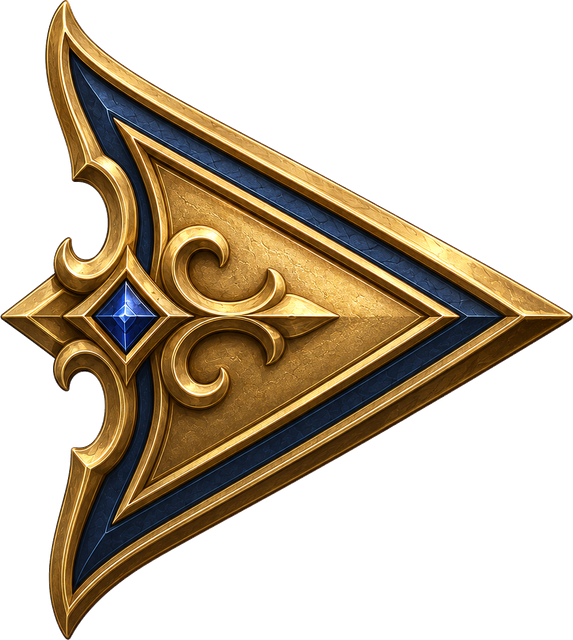
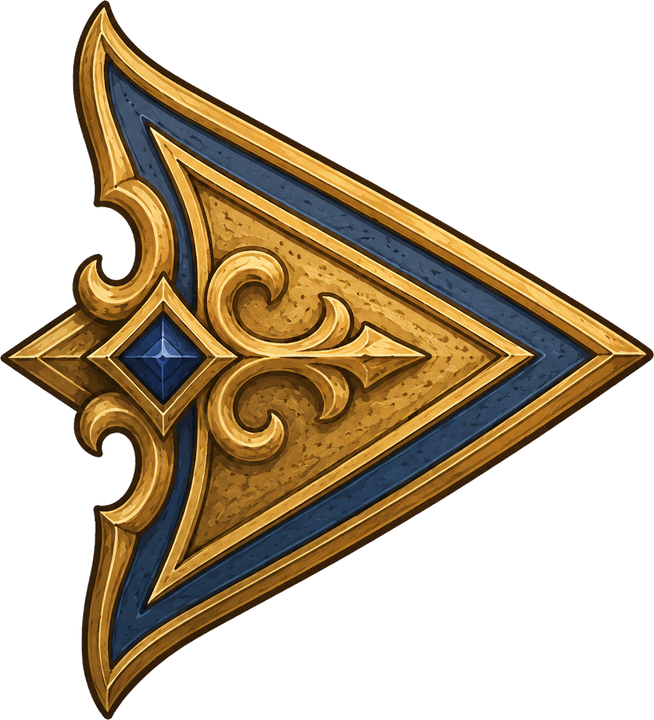
Enlarge map switch arrow

diff --git a/index.html b/index.html
@@ -8,14 +8,14 @@
   <link rel="preconnect" href="https://fonts.googleapis.com" />
   <link rel="preconnect" href="https://fonts.gstatic.com" crossorigin />
   <link href="https://fonts.googleapis.com/css2?family=Cinzel:wght@400;500;600;700;800;900&family=Cinzel+Decorative:wght@700;900&family=IM+Fell+English:ital@0;1&display=swap" rel="stylesheet" />
-  <link rel="stylesheet" href="styles.css?v=20260702-map-switch-arrow" />
+  <link rel="stylesheet" href="styles.css?v=20260702-map-switch-arrow-bigger" />
   <link rel="preload" as="image" href="assets/loading-ring.png" />
   <link rel="preload" as="image" href="assets/loading-crown.png" />
   <link rel="preload" as="image" href="assets/leaderboard-icon.png?v=20260623-leaderboard-icon-new" />
   <link rel="preload" as="image" href="assets/profile-hud-frame.png?v=20260623-profile-avatar-fill" />
   <link rel="preload" as="image" href="assets/city-list-icon.png?v=20260623-city-icon-hud" />
   <link rel="preload" as="image" href="assets/map-icon.png?v=20260623-map-icon-framed" />
-  <link rel="preload" as="image" href="assets/map-switch-arrow.png?v=20260702-map-arrow" />
+  <link rel="preload" as="image" href="assets/map-switch-arrow.png?v=20260702-map-arrow-bigger" />
   <link rel="preload" as="image" href="assets/shop-icon.png?v=20260623-shop-ui" />
   <link rel="preload" as="image" href="assets/bag-icon.png?v=20260623-bag-inventory" />
   <link rel="preload" as="image" href="assets/royal-peace-shield-icon.jpg?v=20260624-royal-shield-icon" />
@@ -240,6 +240,6 @@
   <script src="world-config.js"></script>
   <script src="firebase-config.js"></script>
   <script src="firebaseClient.js?v=20260630-profile-restore-fix"></script>
-  <script src="game.js?v=20260702-map-switch-arrow"></script>
+  <script src="game.js?v=20260702-map-switch-arrow-bigger"></script>
 </body>
 </html>

diff --git a/styles.css b/styles.css
@@ -928,9 +928,10 @@ input {
   100% { transform: scale(1.22); opacity: 0; }
 }
 .teleport-node {
+  --teleport-render-scale: 1.14;
   position: absolute;
-  width: var(--teleport-size, 96px);
-  height: var(--teleport-size, 96px);
+  width: calc(var(--teleport-size, 96px) * var(--teleport-render-scale));
+  height: calc(var(--teleport-size, 96px) * var(--teleport-render-scale));
   transform: translate(-50%, -50%);
   display: grid;
   place-items: center;
@@ -977,7 +978,7 @@ input {
 .teleport-label {
   position: absolute;
   left: 50%;
-  bottom: calc(var(--teleport-size, 96px) * -.26);
+  bottom: calc(var(--teleport-size, 96px) * -.32);
   transform: translateX(-50%);
   padding: .12rem .42rem;
   border-radius: 999px;

diff --git a/game.js b/game.js
@@ -181,9 +181,9 @@ const LOW_ZOOM_PERFORMANCE_THRESHOLD = 0.72;
 const ISLAND_MAP_PADDING = 560;
 const TROOP_PICKUP_ICON_SRC = "assets/troop-pickup.png";
 const GOLD_PICKUP_ICON_SRC = "assets/gold-pickup.png";
-const MAP_SWITCH_ARROW_ICON_SRC = "assets/map-switch-arrow.png?v=20260702-map-arrow";
-const DEFAULT_PORTAL_VISUAL_SIZE = 78;
-const MIN_PORTAL_VISUAL_SIZE = 48;
+const MAP_SWITCH_ARROW_ICON_SRC = "assets/map-switch-arrow.png?v=20260702-map-arrow-bigger";
+const DEFAULT_PORTAL_VISUAL_SIZE = 92;
+const MIN_PORTAL_VISUAL_SIZE = 60;
 const EDGE_TRANSITION_ROUTE_INSET_MIN = 24;
 const EDGE_TRANSITION_ROUTE_INSET_MAX = 58;
 const EDGE_TRANSITION_ARROW_INSET_MIN = 96;

diff --git a/tools/map-editor/index.html b/tools/map-editor/index.html
@@ -4,7 +4,7 @@
   <meta charset="UTF-8" />
   <meta name="viewport" content="width=device-width, initial-scale=1.0" />
   <title>Crownlands World Editor</title>
-  <link rel="stylesheet" href="styles.css?v=20260702-map-switch-arrow" />
+  <link rel="stylesheet" href="styles.css?v=20260702-map-switch-arrow-bigger" />
 </head>
 <body>
   <main class="editor-shell">
@@ -143,6 +143,6 @@
 
     <footer id="statusBar" class="status-bar">Loading world data...</footer>
   </main>
-  <script src="editor.js?v=20260702-map-switch-arrow"></script>
+  <script src="editor.js?v=20260702-map-switch-arrow-bigger"></script>
 </body>
 </html>

diff --git a/tools/map-editor/editor.js b/tools/map-editor/editor.js
@@ -12,7 +12,7 @@
   const MAP_ASPECT_TOLERANCE = 0.02;
   const DEFAULT_MAP_WIDTH = 2048;
   const DEFAULT_MAP_HEIGHT = 1536;
-  const MAP_SWITCH_ARROW_ICON_SRC = "/assets/map-switch-arrow.png?v=20260702-map-arrow";
+  const MAP_SWITCH_ARROW_ICON_SRC = "/assets/map-switch-arrow.png?v=20260702-map-arrow-bigger";
   const REGION_TYPES = ["starter", "midgame", "endgame", "activity", "crownlands_main"];
   const EDGE_TYPES = ["road", "valley", "pass", "river_crossing", "open_field", "forest_break", "bridge"];
   const STRONGHOLD_TYPES = [
